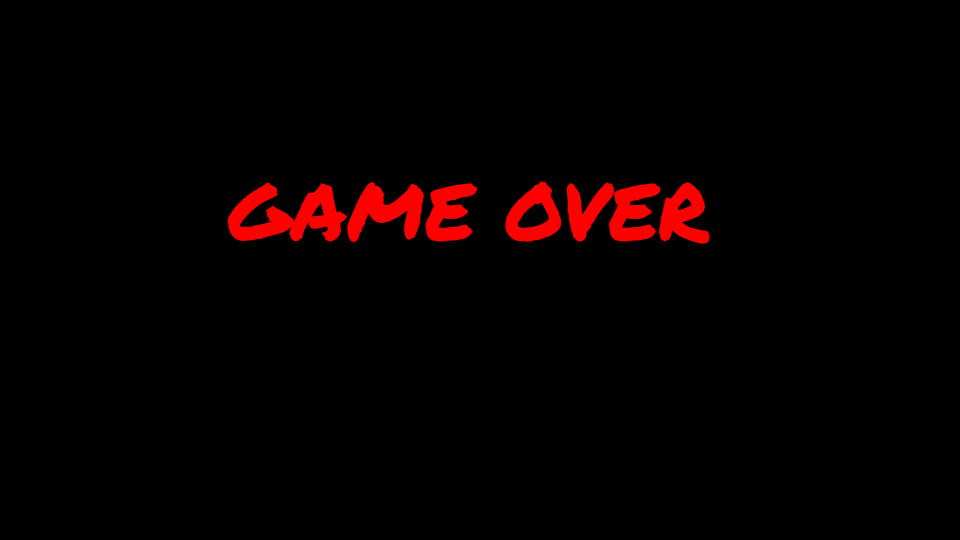
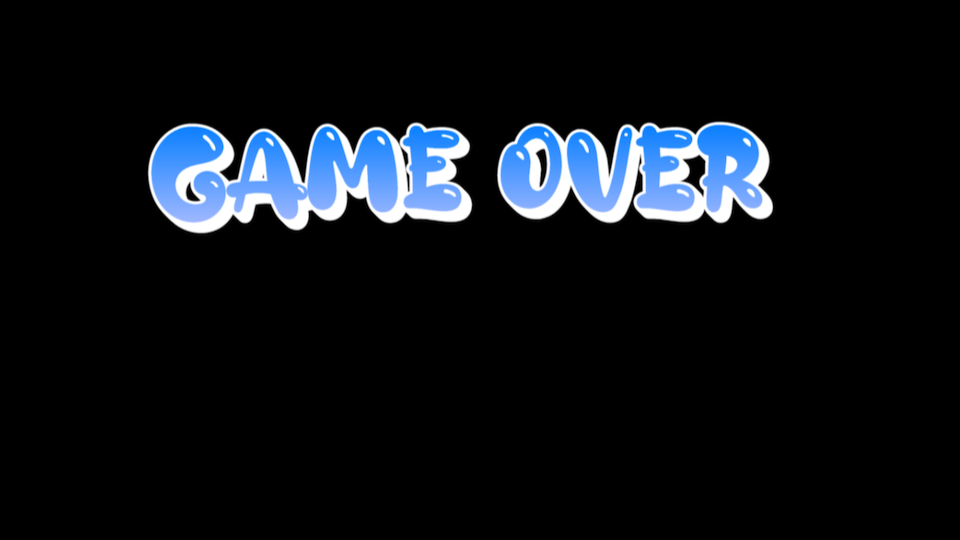
fixed game over screen

Changed region(s): [[0.1562, 0.2074, 0.8125, 0.4741]]

diff --git a/screens/thanks_for_playing_screen.py b/screens/thanks_for_playing_screen.py
@@ -1,20 +1,38 @@
 # thanks_for_playing_screen.py
 import pygame
 import sys
+import math
 
-def thanks_for_playing_screen(screen):
-    """Show the playing screen"""
+def thanks_for_playing_screen(screen, large_font, extra_large_font, score):
+    """Show the thanks for playing screen"""
+
+    score_text = extra_large_font.render(f"Your score is: {score}" , True, (255, 255, 255))
+    thanks_for_playing_text = large_font.render("Thanks for Playing!", True, (255, 255, 255))
     thanks_for_playing_image = pygame.image.load("images/thanks-for-playing-screen.png").convert_alpha()
+
+    clock = pygame.time.Clock()
+    start_time = pygame.time.get_ticks()  # Get the initial time
 
     # Resize the image to 50% of its original size
     new_size = (thanks_for_playing_image.get_width() // 2, thanks_for_playing_image.get_height() // 2)
     thanks_for_playing_image_decreased = pygame.transform.scale(thanks_for_playing_image, new_size)
+    thanks_rect = thanks_for_playing_image_decreased.get_rect(center=(screen.get_width() // 2, screen.get_height() // 2))
+
+    score_text_rect = score_text.get_rect(center=(screen.get_width() // 2, screen.get_height() // 2 - 100))
 
     while True:
-        thanks_rect = thanks_for_playing_image_decreased.get_rect(center=(screen.get_width() // 2, screen.get_height() // 2))
+        elapsed_time = pygame.time.get_ticks() - start_time  # Time since start
+        hover_offset = int(math.sin(elapsed_time * 0.007) * 10)  # Smooth hover effect
+
         screen.blit(thanks_for_playing_image_decreased, thanks_rect)
 
+        screen.blit(score_text, score_text_rect)
+
+        thanks_for_playing_text_rect = thanks_for_playing_text.get_rect(center=(screen.get_width() // 2, screen.get_height() // 2 + 30 + hover_offset))
+        screen.blit(thanks_for_playing_text, thanks_for_playing_text_rect)
+        
         pygame.display.flip()
+        clock.tick(60)  # Limit frame rate
 
         for event in pygame.event.get():
             if event.type == pygame.QUIT:

diff --git a/screens/game_over_screen.py b/screens/game_over_screen.py
@@ -4,20 +4,17 @@ import sys
 # from running_game import game_loop
 
 def game_over_screen(screen, font, large_font, player_name):
-    """Display a Game Over screen."""
+    """Display a Game Over screen"""
 
     game_over_image = pygame.image.load("images/game-over-screen.png").convert_alpha()
 
     game_over_text = large_font.render("Press the [esc] key to exit", True, (255, 255, 255))
-
     game_over_rect = game_over_image.get_rect(center=(screen.get_width() // 2, screen.get_height() // 2 - 20))
 
     restart_text = font.render("Restart", True, (255, 255, 255))
-
     restart_rect = restart_text.get_rect(center=(screen.get_width() // 2, screen.get_height() // 2 + 150))
 
     player_name_text = font.render("You got hit too many times " + player_name, True, (255, 255, 255))
-
     player_name_rect = player_name_text.get_rect(center=(screen.get_width() // 2, screen.get_height() // 2 + 80))
 
     while True:
@@ -28,7 +25,8 @@ def game_over_screen(screen, font, large_font, player_name):
         is_hovered = restart_rect.collidepoint(mouse_pos)
 
         # Change button color when hovered
-        button_color = (255, 50, 50) if is_hovered else (200, 0, 0)
+        # button_color = (39, 104, 163) # Blue Color
+        button_color = (0, 166, 37) if is_hovered else (67, 127, 181)
     
         screen.blit(game_over_image, game_over_rect)
         screen.blit(game_over_text, game_over_text.get_rect(center=(screen.get_width() // 2 - 10, screen.get_height() // 2 + 10)))

diff --git a/running_game_local.py b/running_game_local.py
@@ -83,6 +83,7 @@ GROUND_Y, clock = 425, pygame.time.Clock()
 # Fonts
 font = pygame.font.Font(None, 36)
 large_font = pygame.font.Font(None, 55)
+extra_large_font = pygame.font.Font(None, 70)
 
 class Player(pygame.sprite.Sprite):
     """The main player class with running, jumping, and idle animations."""
@@ -117,7 +118,9 @@ class Player(pygame.sprite.Sprite):
         self.jumping = False
         self.facing_right = True
         self.name = name
-        self.lives = 5
+        self.lives = 5 # Default Lives
+        self.lives = 1
+
 
         # Animation properties
         self.animation_speed = 5
@@ -381,8 +384,7 @@ def game_loop(player_name):
 
     pygame.mixer.music.stop() # Stops music
 
-    thanks_for_playing_screen(screen) # Thanks for playing screen
-
+    thanks_for_playing_screen(screen, large_font, extra_large_font, score) # Thanks for playing screen
     game_over_screen(screen, font, large_font, player_name)
   
     # Restart game when user clicks restart

diff --git a/screens/start_screen.py b/screens/start_screen.py
@@ -16,9 +16,9 @@ def start_screen(screen, large_font):
         screen.fill((32, 32, 32))  # Clear the screen (optional)
         
         elapsed_time = pygame.time.get_ticks() - start_time  # Time since start
-        hover_offset = int(math.sin(elapsed_time * 0.003) * 10)  # Smooth hover effect
+        hover_offset = int(math.sin(elapsed_time * 0.005) * 10)  # Smooth hover effect
 
-        title_rect = title_image.get_rect(center=(screen.get_width() // 2, screen.get_height() // 2 - 30))
+        title_rect = title_image.get_rect(center=(screen.get_width() // 2, screen.get_height() // 2 - 20))
         screen.blit(title_image, title_rect)
 
         start_text_rect = start_text.get_rect(center=(screen.get_width() // 2 + 105, screen.get_height() // 2 + 110 + hover_offset))
